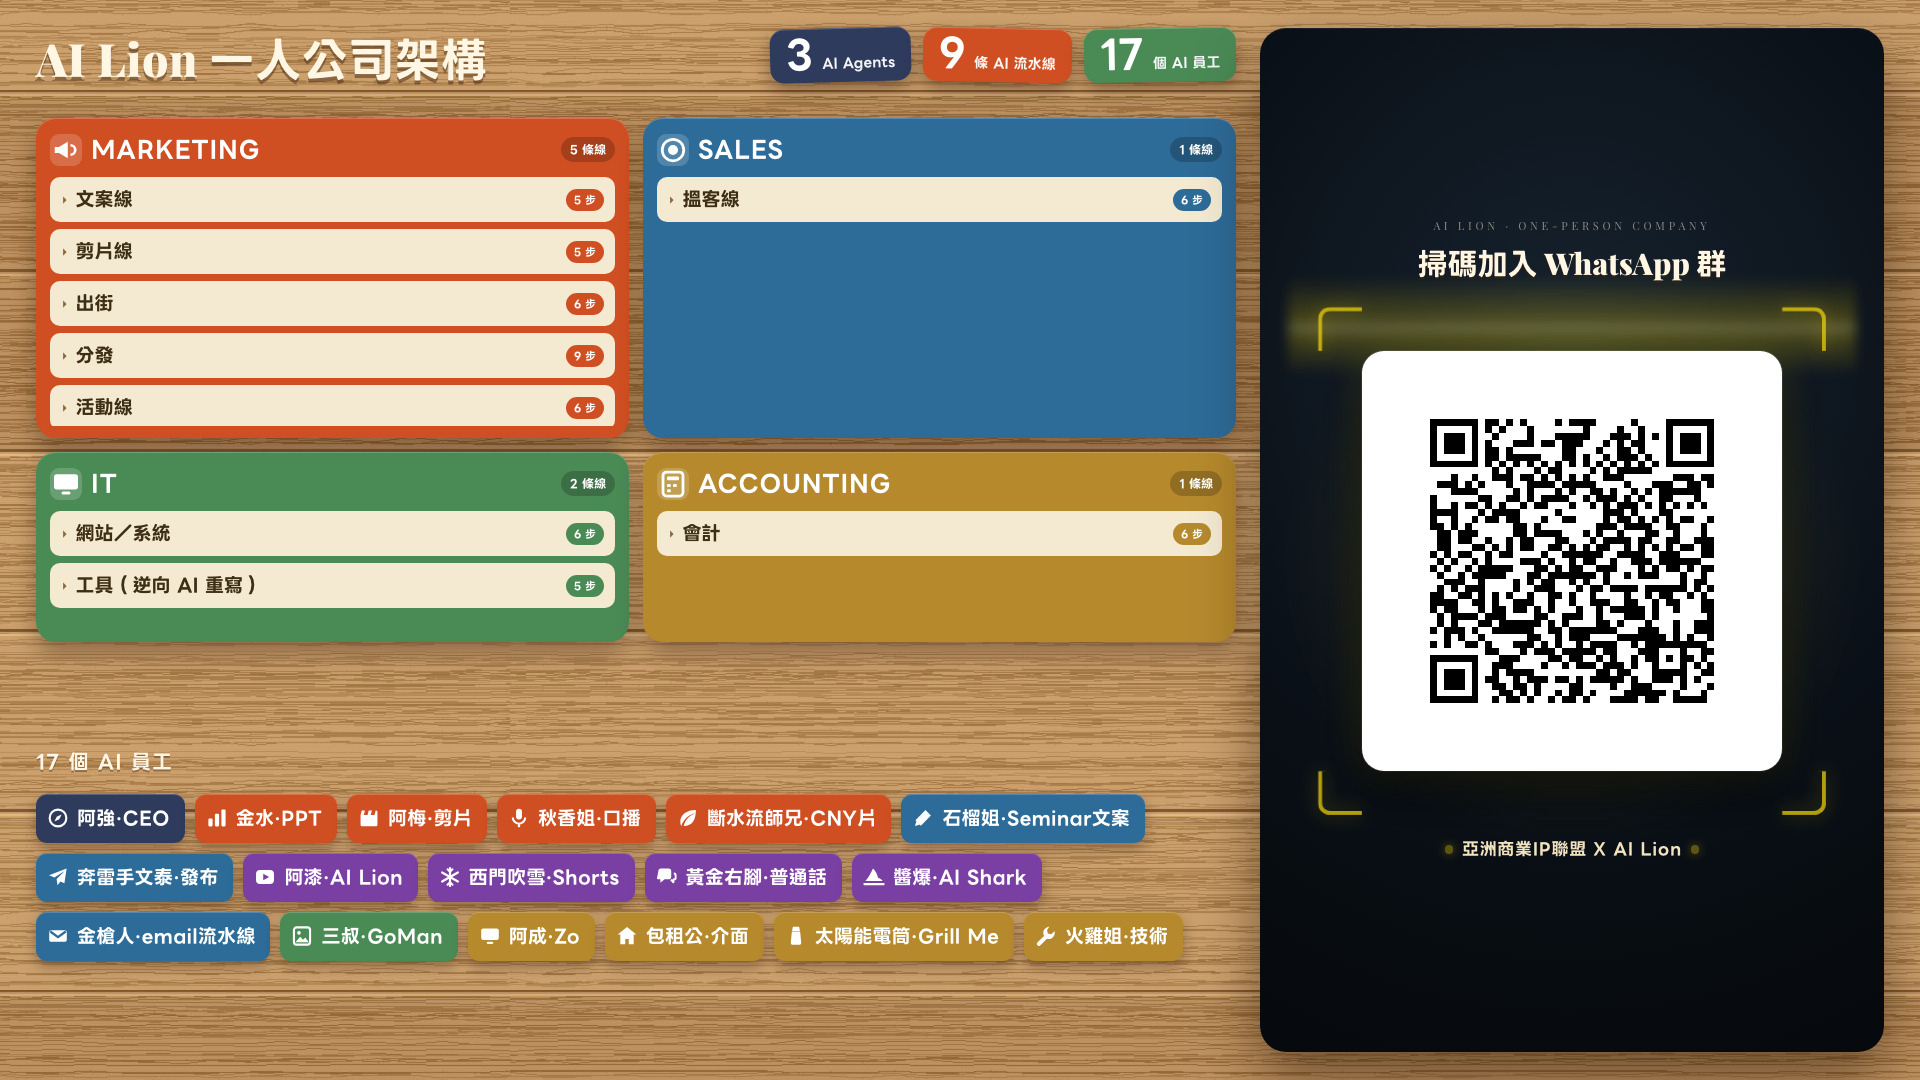
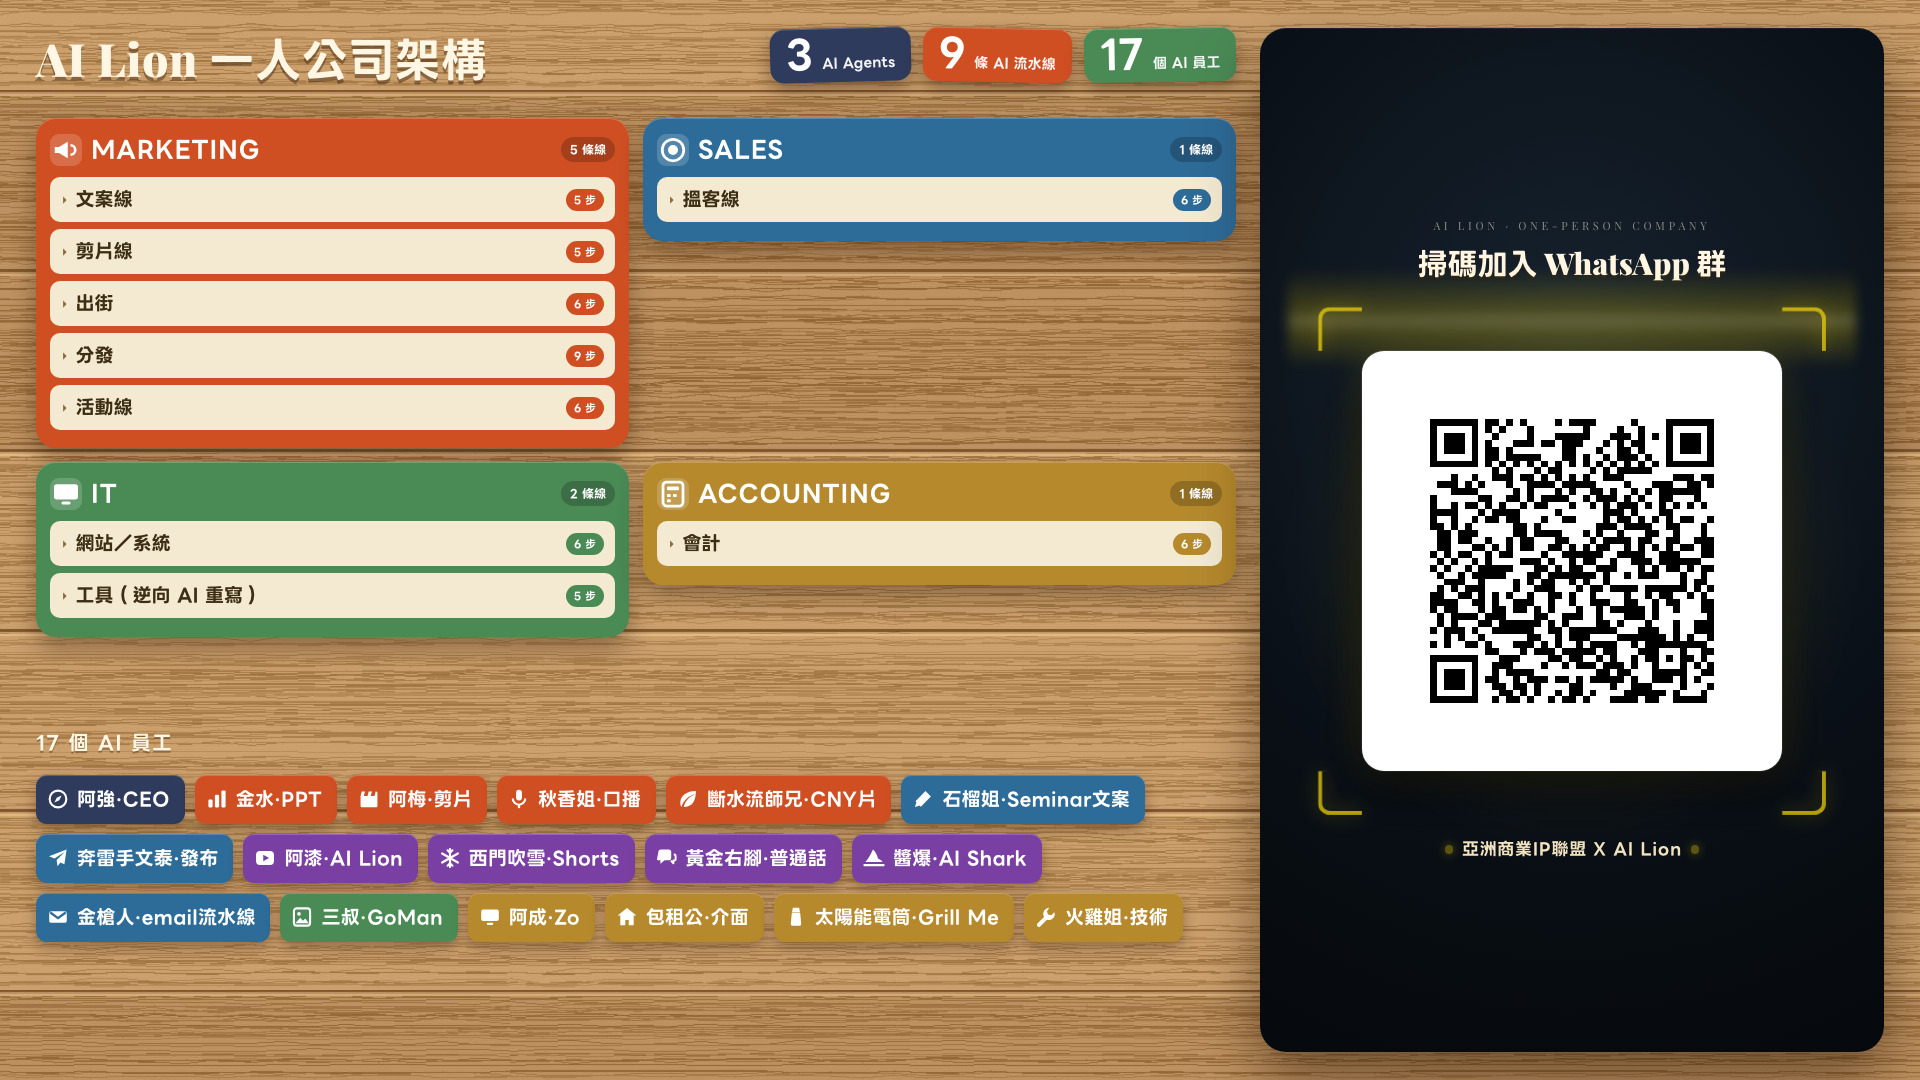
一板版：卡高跟內容、員工帶上移

Changed region(s): [[0.0, 0.2139, 0.6562, 0.6111], [0.0, 0.6722, 0.625, 0.9167]]

diff --git a/mindmap-onepage.html b/mindmap-onepage.html
@@ -19,15 +19,22 @@ h1{font-family:"Playfair Display","LINE Seed TW","PingFang TC",sans-serif;
 .nc b{font-size:40px;font-weight:900;color:#fff;line-height:.9}
 .nc i{font-style:normal;font-size:14px;font-weight:800;color:rgba(255,255,255,.94)}
 /* 部門格 */
-.grid{position:absolute;left:36px;top:118px;width:1200px;height:524px;
-  display:grid;grid-template-columns:1fr 1fr;grid-template-rows:320px 190px;gap:14px}
-.dept{background:var(--c);border-radius:20px;padding:12px 14px;min-height:0;display:flex;flex-direction:column;
+.grid{position:absolute;left:36px;top:118px;width:1200px;
+  display:grid;grid-template-columns:1fr 1fr;grid-template-rows:auto auto;
+  gap:14px;align-items:start;align-content:start}
+/* 卡高跟內容，但封頂：展開時喺卡內 scroll，唔會推走下面 */
+.grid>.dept:nth-child(1),.grid>.dept:nth-child(2){max-height:330px}
+.grid>.dept:nth-child(3),.grid>.dept:nth-child(4){max-height:186px}
+.dept{background:var(--c);border-radius:20px;padding:12px 14px;min-height:0;height:auto;display:flex;flex-direction:column;
   box-shadow:0 12px 24px rgba(40,18,4,.38),inset 0 1px 0 rgba(255,255,255,.2)}
 .dh{display:flex;align-items:center;gap:9px;color:#fff;margin-bottom:8px}
 .dic{width:32px;height:32px;display:grid;place-items:center;background:rgba(255,255,255,.18);border-radius:9px;flex:0 0 32px}
 .dh b{font-size:24px;font-weight:900;letter-spacing:.03em}
 .dh i{font-style:normal;margin-left:auto;font-size:12px;font-weight:800;background:rgba(0,0,0,.2);padding:3px 9px;border-radius:99px}
 .lines{overflow:auto;min-height:0;flex:1;scrollbar-width:thin}
+/* 展開時底部淡出，提示仲有內容（唔會令人以為壞咗） */
+.dept:has(.line.open) .lines{mask-image:linear-gradient(to bottom,#000 calc(100% - 28px),transparent);
+  -webkit-mask-image:linear-gradient(to bottom,#000 calc(100% - 28px),transparent)}
 .lines::-webkit-scrollbar{width:6px}
 .lines::-webkit-scrollbar-thumb{background:rgba(255,255,255,.32);border-radius:3px}
 .line{background:#f4ead2;border-radius:10px;margin-bottom:7px;overflow:hidden}
@@ -43,7 +50,7 @@ h1{font-family:"Playfair Display","LINE Seed TW","PingFang TC",sans-serif;
   border-radius:8px;padding:4px 9px;font-size:13px;font-weight:800;color:#3d2f16;white-space:nowrap}
 .stp b{font-size:13px}
 /* 員工帶 */
-.staff{position:absolute;left:36px;top:660px;width:1200px;height:386px;
+.staff{position:absolute;left:36px;top:622px;width:1200px;height:424px;
   display:flex;flex-direction:column;justify-content:center}
 .sh{font-size:20px;font-weight:900;color:#fff6e3;letter-spacing:.06em;margin-bottom:16px;
   text-shadow:0 2px 0 rgba(60,32,8,.4)}
